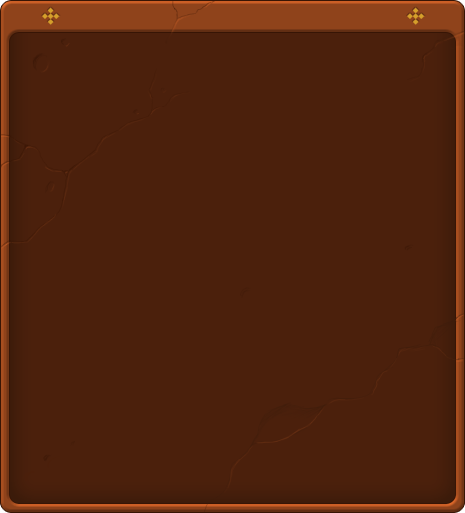
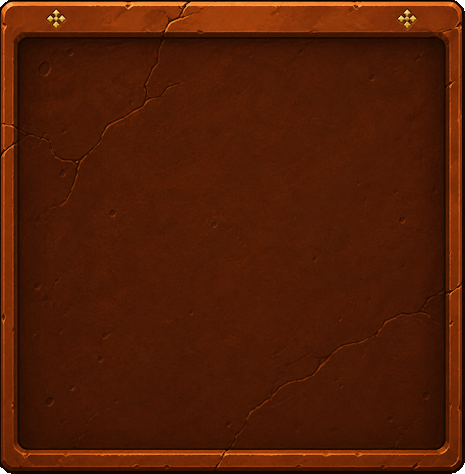
improve seed bank and chooser texture and other minor changes

diff --git a/src/main.cpp b/src/main.cpp
@@ -970,7 +970,7 @@ Entity defineNormalPlant() {
 			if (zombieInLane) {
 				plant.DoAnimation(1, 2);
 
-				if (plant.currentAnimation.currentFrame == plant.currentAnimation.frames/2) {
+				if (plant.currentAnimation.currentFrame == plant.currentAnimation.frames / 2) {
 					plant.attackClock.restart();
 					Entity newBullet = defineNormalBullet();
 					//Bullet newBullet = defineNormalBullet();
@@ -1842,8 +1842,7 @@ Entity defineBigZombie() {
 
 	return zombie;
 }
-Entity defineTorchlightZombie()
-{
+Entity defineTorchlightZombie() {
 	textures[TEXTURE_TYPE::ZOMBIE_TORCHLIGHT][0].loadFromFile("assets/torchlightzombie.png");
 	textures[TEXTURE_TYPE::ZOMBIE_TORCHLIGHT][1].loadFromFile("assets/TorchlightZombieDeath.png");
 
@@ -2655,6 +2654,12 @@ void CheckTimer_AddSun(RenderWindow& window) {
 	}
 }
 
+void screenFade(RenderWindow& window, float v) {
+	sf::RectangleShape fade(Vector2f(windowWidth, windowHeight));
+	fade.setFillColor(Color(0, 0, 0, (Uint8)(255 * v)));
+	window.draw(fade);
+}
+
 // There is a bug in SFML that causes the program to crash when exiting
 // Making this a pointer and deleting it early prevents that crash
 Font* font;
@@ -2692,7 +2697,7 @@ Sprite DrawSeedPacket(RenderWindow& window, Entity& plant, Vector2f pos, bool in
 	float scaleFactor = 74.0f / frameHeight;
 	plantSprite.setScale(Vector2f(scaleFactor, scaleFactor) * scale);
 
-	if (sprite.getGlobalBounds().contains(Vector2f(mousePos))) {
+	if (interactable && sprite.getGlobalBounds().contains(Vector2f(mousePos))) {
 		sprite.setColor(color * Color(128, 128, 128, 255));
 		plantSprite.setColor(color * Color(128, 128, 128, 255));
 	}
@@ -2726,7 +2731,7 @@ void DrawSeeds(RenderWindow& window) {
 	uiSprite.setPosition(pos);
 	uiSprite.setTexture(seedBank);
 	resizeSpriteToTex(uiSprite, seedBank);
-	uiSprite.setScale(Vector2f(1.4f, 1.4f));
+	uiSprite.setScale(Vector2f(1.0f, 1.0f));
 
 	window.draw(uiSprite);
 	uiSprite.setScale(Vector2f(1.0f, 1.0f));
@@ -2735,7 +2740,8 @@ void DrawSeeds(RenderWindow& window) {
 	text.setFont(*font);
 	text.setString(std::to_string(sunsMoney));
 	text.setFillColor(Color());
-	text.setPosition(pos + Vector2f(32, 82));
+	text.setOrigin(Vector2f(text.getGlobalBounds().getSize()) / 2.0f);
+	text.setPosition(pos + Vector2f(72, 136));
 
 	window.draw(text);
 
@@ -2746,19 +2752,19 @@ void DrawSeeds(RenderWindow& window) {
 	int i = -1;
 	for (auto& plant : currentLevel->selectedPlants) {
 		i++;
-		Vector2f spritePos = pos + Vector2f(115.0f + i * (seedPacketSize.x - 10.0f), 10.0f);
+		Vector2f spritePos = pos + Vector2f(155.0f + i * (seedPacketSize.x + 10), 24.0f);
 
 		Color packetColor = Color::White;
 		if (sunsMoney < plant.price || plant.currentSeedCooldown > 0) {
 			packetColor = Color(100, 100, 100, 255);
 		}
 
-		Sprite sprite = DrawSeedPacket(window, plant, spritePos, true, 0.75f, packetColor);
+		Sprite sprite = DrawSeedPacket(window, plant, spritePos, true, 0.9f, packetColor);
 
 		if (plant.currentSeedCooldown > 0.0f && plant.seedCooldown > 0.0f) {
 			float progress = plant.currentSeedCooldown / plant.seedCooldown;
-			float h = sprite.getGlobalBounds().height * .75f;
-			float w = sprite.getGlobalBounds().width * .75f;
+			float h = sprite.getGlobalBounds().height * 0.9f;
+			float w = sprite.getGlobalBounds().width * 0.9f;
 
 			RectangleShape overlay(Vector2f(w, h * progress));
 			overlay.setPosition(spritePos.x, spritePos.y + h * (1.0f - progress));
@@ -2802,7 +2808,7 @@ void DrawSelectPlants(RenderWindow& window) {
 
 	Sprite bgSprite;
 	bgSprite.setTexture(getTexture(TEXTURE_TYPE::SEED_CHOOSER));
-	bgSprite.setPosition(Vector2f(10, 123.0f) + animationOffset);
+	bgSprite.setPosition(Vector2f(10, 183.0f) + animationOffset);
 	bgSprite.setScale(Vector2f(1.5f, 1.5f));
 
 	window.draw(bgSprite);
@@ -2810,8 +2816,8 @@ void DrawSelectPlants(RenderWindow& window) {
 	Text text;
 	text.setFont(*font);
 	text.setString("Choose your plants");
-	text.setFillColor(Color(255, 255, 255, 128));
-	text.setPosition(Vector2f(240, 130.0f) + animationOffset);
+	text.setFillColor(Color(255, 255, 255, 192));
+	text.setPosition(Vector2f(240, 195.0f) + animationOffset);
 
 	window.draw(text);
 
@@ -2824,7 +2830,7 @@ void DrawSelectPlants(RenderWindow& window) {
 		if (!isEntityUnlocked[plant.type]) continue;
 
 		i++;
-		Vector2f spritePos = Vector2f(50.0f, 190.0f) + animationOffset + Vector2f((i % 7) * (seedPacketSize.x - 10.0f), 10.0f + (i / 7) * 130.0f);
+		Vector2f spritePos = Vector2f(50.0f, 250.0f) + animationOffset + Vector2f((i % 6) * (seedPacketSize.x + 5.0f), 10.0f + (i / 6) * 150.0f);
 
 		Vector2u size = Vector2u(Vector2f(seedPacketSize) * 0.75f);
 
@@ -2842,7 +2848,7 @@ void DrawSelectPlants(RenderWindow& window) {
 			color = Color(64, 64, 64, 255);
 		}
 
-		Sprite sprite = DrawSeedPacket(window, plant, spritePos, true, 0.75f, color);
+		Sprite sprite = DrawSeedPacket(window, plant, spritePos, true, 0.9f, color);
 
 		if (!disabled && mouseJustClicked[0] && currentLevel->selectedPlants.size() < 5 && sprite.getGlobalBounds().contains(Vector2f(mousePos))) {
 			uiInteracted = true;
@@ -2892,6 +2898,9 @@ void DrawRewardsScreen(RenderWindow& window) {
 	Vector2u seedPacketSize = getTexture(TEXTURE_TYPE::SEEDPACKET).getSize();
 
 	float diff = currentLevel->clock.getElapsedTime().asSeconds() - currentLevel->winTime.asSeconds();
+
+	screenFade(window, 0.5f * std::min(diff / 1.0f, 1.0f));
+
 	float progress = (diff - 1) / 0.5f;
 	if (progress > 1) progress = 1;
 	float scale = 2.0f * progress;
@@ -2971,6 +2980,7 @@ void DrawWinScreen(RenderWindow& window) {
 }
 
 // Screen Animations
+
 void screenAnimation(RenderWindow& window) {
 	int level = currentLevel->lvlNum;
 
@@ -3015,10 +3025,7 @@ void gameOverAnimation(RenderWindow& window) {
 		if (progress < 0) progress = 0;
 		if (progress > 1) progress = 1;
 
-		int c = 255 - (int)(128 * progress);
-		ground.setColor(Color(c, c, c, 255));
-		zombieSprite.setColor(Color(c, c, c, 255));
-		plantSprite.setColor(Color(c, c, c, 255));
+		screenFade(window, progress * 0.5f);
 	}
 	if (currentLevel->clock.getElapsedTime().asSeconds() - currentLevel->gameOverTime.asSeconds() > 2.5) {
 		float progress = (currentLevel->clock.getElapsedTime().asSeconds() - currentLevel->gameOverTime.asSeconds() - 2.5) / 0.75f;
@@ -3037,22 +3044,13 @@ void gameOverAnimation(RenderWindow& window) {
 		int c = 255 - (int)(255 * progress);
 		gameOverScreen.setFillColor(Color(c, c, c, 255));
 
-		c = 128 - (int)(128 * progress);
-		ground.setColor(Color(c, c, c, 255));
-		zombieSprite.setColor(Color(c, c, c, 255));
-		plantSprite.setColor(Color(c, c, c, 255));
+		screenFade(window, progress);
 	}
 	if (currentLevel->clock.getElapsedTime().asSeconds() - currentLevel->gameOverTime.asSeconds() > 8.5f) {
 		resetLevel();
 		currentLevel = nullptr;
 		return;
 	}
-}
-
-void screenFade(RenderWindow& window, float v) {
-	sf::RectangleShape fade(Vector2f(windowWidth, windowHeight));
-	fade.setFillColor(Color(0, 0, 0, (Uint8)(255 * v)));
-	window.draw(fade);
 }
 
 // UI interaction parts
@@ -3315,10 +3313,6 @@ void UpdateLevel(RenderWindow& window) {
 	zombieSprite.setColor(Color::White);
 	plantSprite.setColor(Color::White);
 
-	if (isGameOver) {
-		gameOverAnimation(window);
-	}
-
 	if (currentLevel == nullptr) return;
 	int level = currentLevel->lvlNum;
 	ground.setTexture(textures[TEXTURE_TYPE::LEVEL_BACKGROUND][level]);
@@ -3440,7 +3434,10 @@ void UpdateLevel(RenderWindow& window) {
 	if (isGameOver) {
 		ground.setTexture(textures[TEXTURE_TYPE::LEVEL_BACKGROUND_HOUSE][level]);
 		window.draw(ground);
+
+		gameOverAnimation(window);
 	}
+	if (currentLevel == nullptr) return;
 
 	if (isGameOver == true) {
 		window.draw(gameOverScreen);
